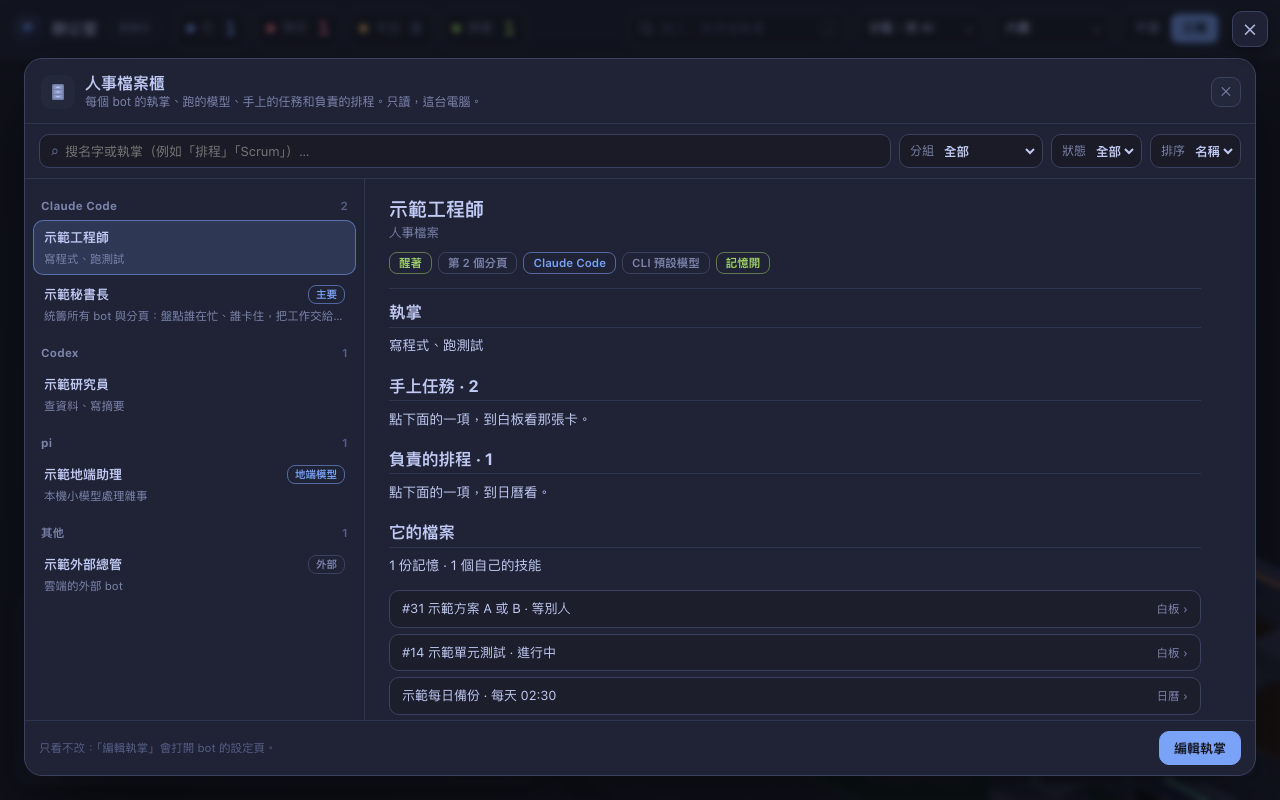
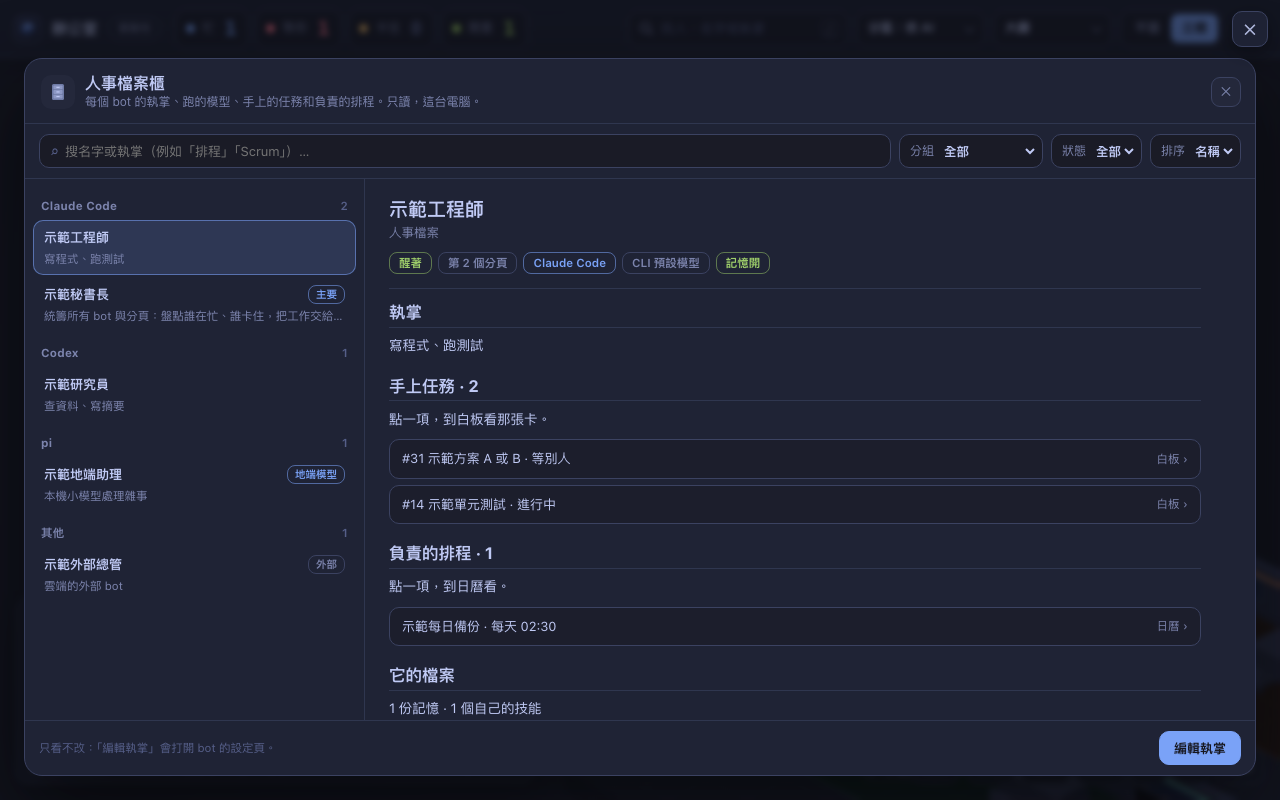
Personnel file: each heading has its own items right under it
Reviewed: the open tasks and the schedules it owns were drawn after the last
section (its files), so they read as part of that section. A link may now name
the `section` it belongs to; the popup draws those links where the markdown has
a line {{links:<section>}}, the others at the end as before. The personnel file
puts its tasks, schedules and bookshelf link under their own headings.
tests_office_objects_ui.py checks the order and that no marker shows.

diff --git a/web/office_objects.js b/web/office_objects.js
@@ -310,11 +310,21 @@
       if (!it) { V.innerHTML = `<div class="oo-view-in"><div class="oo-hint">${esc(T('Pick something on the left to read it.', '從左邊挑一項來看。'))}</div></div>`; return; }
       const chips = (it.chips || []).map(c => `<span class="oo-chip ${esc(c.tone || '')}">${esc(c.text)}</span>`).join('');
       const meta = (it.meta || []).map(m => `<span><i>${esc(m[0])}</i> ${esc(m[1])}</span>`).join('');
-      const links = (it.links || []).map((l, n) => `<button type="button" class="oo-link${l.tone ? ' ' + esc(l.tone) : ''}" data-link="${n}"><span>${esc(l.label)}</span>${l.note ? `<em>${esc(l.note)} ›</em>` : '<em>›</em>'}</button>`).join('');
+      const linkHtml = (l, n) => `<button type="button" class="oo-link${l.tone ? ' ' + esc(l.tone) : ''}" data-link="${n}"><span>${esc(l.label)}</span>${l.note ? `<em>${esc(l.note)} ›</em>` : '<em>›</em>'}</button>`;
+      // A link with a `section` goes where the markdown has a line {{links:<section>}} (under its own heading); the others,
+      // and any whose marker is missing, at the end. data-link stays the index into it.links.
+      const placed = new Set();
+      let body = md(it.markdown).replace(/<p>\s*\{\{links:([a-z0-9_-]{1,40})\}\}\s*<\/p>/g, (m, sec) => {
+        const here = (it.links || []).map((l, n) => [l, n]).filter(([l]) => l.section === sec);
+        here.forEach(([, n]) => placed.add(n));
+        return here.length ? `<div class="oo-links oo-links-in">${here.map(([l, n]) => linkHtml(l, n)).join('')}</div>` : '';
+      });
+      body = body.replace(/\{\{links:[a-z0-9_-]{1,40}\}\}/g, '');    // a marker the renderer did not put on a line of its own
+      const links = (it.links || []).map((l, n) => (placed.has(n) ? '' : linkHtml(l, n))).join('');
       V.innerHTML = '<div class="oo-view-in">' +
         `<h3>${esc(it.title)}</h3>${it.subtitle ? `<p class="oo-sub">${esc(it.subtitle)}</p>` : ''}` +
         (chips ? `<div class="oo-chips">${chips}</div>` : '') + (meta ? `<div class="oo-meta">${meta}</div>` : '') +
-        `<div class="oo-md">${md(it.markdown)}</div>` +
+        `<div class="oo-md">${body}</div>` +
         (it.note ? `<p class="oo-fine">${esc(it.note)}</p>` : '') +
         (links ? `<div class="oo-links">${links}</div>` : '') + '</div>';
       V.scrollTop = 0;

diff --git a/web/office_objects.css b/web/office_objects.css
@@ -78,6 +78,7 @@ body.embedded .oo-veil{padding-top:58px}   /* the app's own ✕ (top right, over
 .oo-plain{white-space:pre-wrap;font:12.5px var(--mono)}
 .oo-fine{margin-top:12px;font-size:11.5px;color:var(--mute)}
 .oo-links{display:flex;flex-direction:column;gap:6px;margin-top:14px}
+.oo-md .oo-links-in{margin:8px 0 6px}
 .oo-link{display:flex;align-items:center;gap:10px;justify-content:space-between;text-align:left;padding:8px 12px;border-radius:10px;border:1px solid var(--line);background:rgba(26,27,38,.6);font-size:13px;min-width:0}
 .oo-link span{min-width:0;overflow:hidden;text-overflow:ellipsis;white-space:nowrap}
 .oo-link em{font-style:normal;font-size:11.5px;color:var(--dim);flex:none}

diff --git a/office_personnel.py b/office_personnel.py
@@ -213,18 +213,22 @@ class Personnel(oo.OfficeObject):
             en, zh = TASK_WORDS.get(t.get("status"), (str(t.get("status") or ""), str(t.get("status") or "")))
             tag = ctx.t(en, zh)
             links.append({"label": f"#{t.get('id')} {t.get('title') or ''} · {tag}", "view": "board", "task": t.get("id"),
-                          "note": ctx.t("whiteboard", "白板")})
-        lines.append(ctx.t("Click one below to see its card on the whiteboard.", "點下面的一項，到白板看那張卡。") if mine
+                          "note": ctx.t("whiteboard", "白板"), "section": "tasks"})
+        lines.append(ctx.t("Click one to see its card on the whiteboard.", "點一項，到白板看那張卡。") if mine
                      else ctx.t("None.", "沒有。"))
+        if mine:
+            lines += ["", "{{links:tasks}}"]          # the popup draws this section's links here, under its own heading
         lines.append("")
         sched = [s for s in (ctx.schedules() or []) if str(s.get("owner") or "") in names]
         lines.append(f"## {ctx.t('Schedules it owns', '負責的排程')} · {len(sched)}")
         for s in sched[:12]:
             when = s.get("when") if isinstance(s.get("when"), dict) else {"en": s.get("when") or "", "zh": s.get("when") or ""}
             links.append({"label": f"{s.get('title') or s.get('id')} · {oo.loc(when, ctx.lang)}", "view": "cal",
-                          "note": ctx.t("calendar", "日曆")})
-        lines.append(ctx.t("Click one below to see it on the calendar.", "點下面的一項，到日曆看。") if sched
+                          "note": ctx.t("calendar", "日曆"), "section": "schedules"})
+        lines.append(ctx.t("Click one to see it on the calendar.", "點一項，到日曆看。") if sched
                      else ctx.t("None.", "沒有。"))
+        if sched:
+            lines += ["", "{{links:schedules}}"]
         lines.append("")
         if not ext:
             n_mem = 1 if bots.memory_file(role).is_file() else 0
@@ -232,7 +236,8 @@ class Personnel(oo.OfficeObject):
             lines.append(f"## {ctx.t('Its files', '它的檔案')}")
             lines.append(ctx.t(f"{n_mem} memory · {n_skill} own skills", f"{n_mem} 份記憶 · {n_skill} 個自己的技能"))
             links.append({"label": ctx.t("Bookshelf", "書櫃") + " / " + label, "object": "bookshelf",
-                          "filters": {"owner": role}, "note": ctx.t("shelf", "書櫃")})
+                          "filters": {"owner": role}, "note": ctx.t("shelf", "書櫃"), "section": "files"})
+            lines += ["", "{{links:files}}"]
         return {"title": label, "subtitle": ctx.t("Personnel file", "人事檔案"), "markdown": "\n".join(lines),
                 "chips": chips, "links": links, "actions": ["edit_duty"], "owner": label,
                 "owner_key": "" if ext else f"b:{role}"}

diff --git a/tests_office_objects_ui.py b/tests_office_objects_ui.py
@@ -393,6 +393,13 @@ def run(browser, base, engine):
     check("the engineer's file: duty, open tasks (by label and by role), the schedule it owns, how much it keeps",
           "寫程式、跑測試" in view and "#31" in view and "#14" in view and "示範每日備份" in view and "每天 02:30" in view and "1 份記憶" in view, view[:500])
     check("its only action is 編輯執掌", fr.evaluate("[...document.querySelectorAll('#ooActs button')].map(b => b.textContent)") == ["編輯執掌"])
+    # reviewed: each heading has its own items right under it, not all of them after the last section
+    order = fr.evaluate("""[...document.querySelectorAll('#ooView .oo-md :is(h1,h2,h3,h4,h5,h6,.cm-h), #ooView .oo-md .oo-link, #ooView .oo-links:not(.oo-links-in) .oo-link')]
+        .map(e => (/^H[1-6]$/.test(e.tagName) || e.classList.contains('cm-h')) ? 'H:' + e.textContent.split(' ·')[0] : 'L:' + e.textContent.split(' ')[0])""")
+    want = ["H:執掌", "H:手上任務", "L:#31", "L:#14", "H:負責的排程", "L:示範每日備份", "H:它的檔案", "L:書櫃"]
+    check("under 手上任務 its tasks, under 負責的排程 its schedule, under 它的檔案 the bookshelf link; nothing left at the end",
+          order == want and not fr.evaluate("!!document.querySelector('#ooView .oo-links:not(.oo-links-in)')"), order)
+    check("no {{links:…}} marker shows", "{{links" not in fr.evaluate("document.getElementById('ooView').innerText"))
     if shoot:
         page.screenshot(path=str(SHOTS / "office-objects-personnel-file-1280.png"))
     fr.click('#ooView .oo-link:has-text("#31")')

diff --git a/office_objects.py b/office_objects.py
@@ -246,6 +246,8 @@ def clean_link(raw):
         return None
     if raw.get("note"):
         out["note"] = _name(raw["note"], 80)
+    if raw.get("section") and _ID.fullmatch(str(raw["section"])):
+        out["section"] = str(raw["section"])        # drawn where the markdown says {{links:<section>}}; else at the end
     if raw.get("tone") in TONES:
         out["tone"] = raw["tone"]
     return out

diff --git a/docs/architecture.md b/docs/architecture.md
@@ -204,7 +204,7 @@ An office object is a piece of furniture in the lobby that opens the shared popu
 2. **Answer the hooks** (a built-in subclasses `office_objects.OfficeObject` and gets `ctx`; a plugin's `Plugin` defines `office_summary` / `office_list` / `office_item` / `office_action`, no `ctx`):
    - `summary(obj_id)` → `{"badge": int}`: the red number. A few stats, no file contents; the page asks at most every 30 s while the office is open.
    - `list(obj_id, query, filters, sort, offset, limit)` → `{"groups": [{id, title, tag?}], "items": [{id, group, title, subtitle, type, owner, owner_key, mtime, size, limit, tone, tags: [{id, label, tone}]}], "total"}`; `size`/`limit` draw a meter. `owner_key` is the office's key for the bot to talk to (`b:<role>`).
-   - `item(obj_id, item_id)` → `{"title", "subtitle", "markdown", "meta": [[label, value]], "chips": [{text, tone}], "links": [...], "actions": [declared action ids], "owner", "owner_key"}`. A link leads to another object (`{object, filters, query, item}`), a wall view (`{view: "board" | "cal", task?}`) or a bot's tab (`{follow}`).
+   - `item(obj_id, item_id)` → `{"title", "subtitle", "markdown", "meta": [[label, value]], "chips": [{text, tone}], "links": [...], "actions": [declared action ids], "owner", "owner_key"}`. A link leads to another object (`{object, filters, query, item}`), a wall view (`{view: "board" | "cal", task?}`); a link with `section` is drawn where the markdown has a line `{{links:<section>}}` (under its own heading), the others at the end or a bot's tab (`{follow}`).
    - `action(obj_id, item_id, action_id, args)` → `{"ok", "message"?, "open"?: path, "tell"?: {"to": "b:<role>", "text": one line}, "go"?: {...}}`. `open` is opened by the app's own opener (`open_local_file`) and never reaches the page; `tell` is sent by the page into that bot's tab through the chat view's send (one line, the person's unsent draft untouched); `go` is a link, or `{"settings": role}` for the bot editor.
 3. **Rules the host enforces, and the object keeps**: `item_id` is page input: look it up in your own listing, never join it into a path; read a file only in `item`, not in `summary`; never list files you do not mean to show (a skill's scripts); every text is masked and capped by the host, but not reading a secret is the first defence; a hook that raises or takes more than 3 s makes only its own call fail ("this object is not available right now").
 4. **Register it**: a built-in goes in `api_office_objects.builtin_objects()`; a plugin only needs its manifest and an enabled `config.plugins` entry (its hooks are called only while it is enabled and the office is open). A new kind of furniture is one more entry in `KINDS` and one draw branch in `office_objects.js`.
